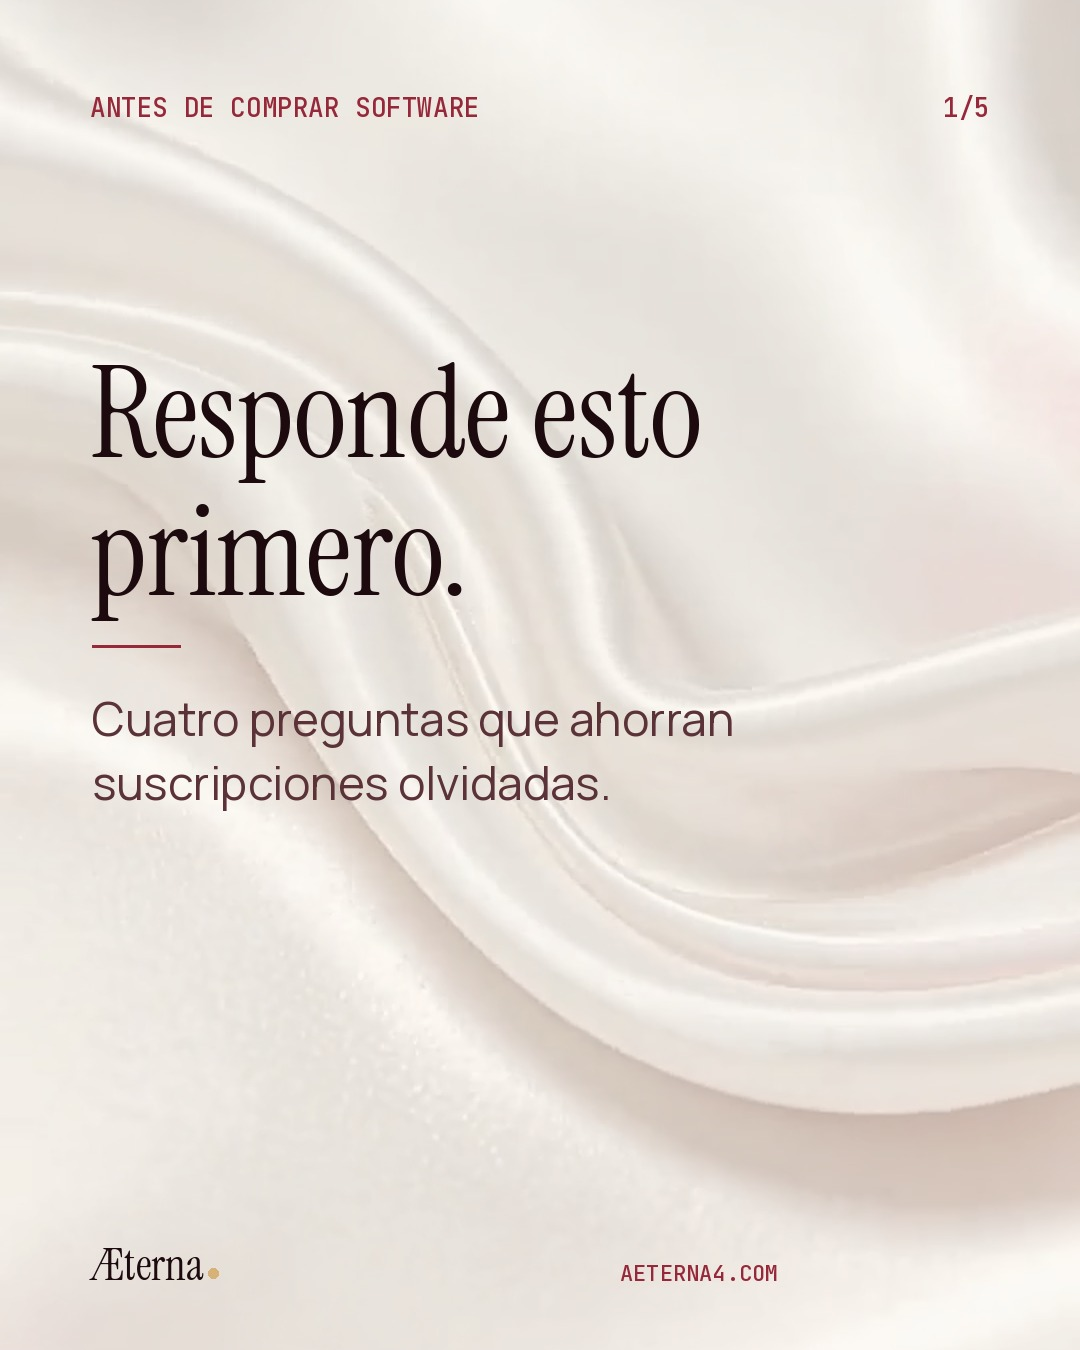
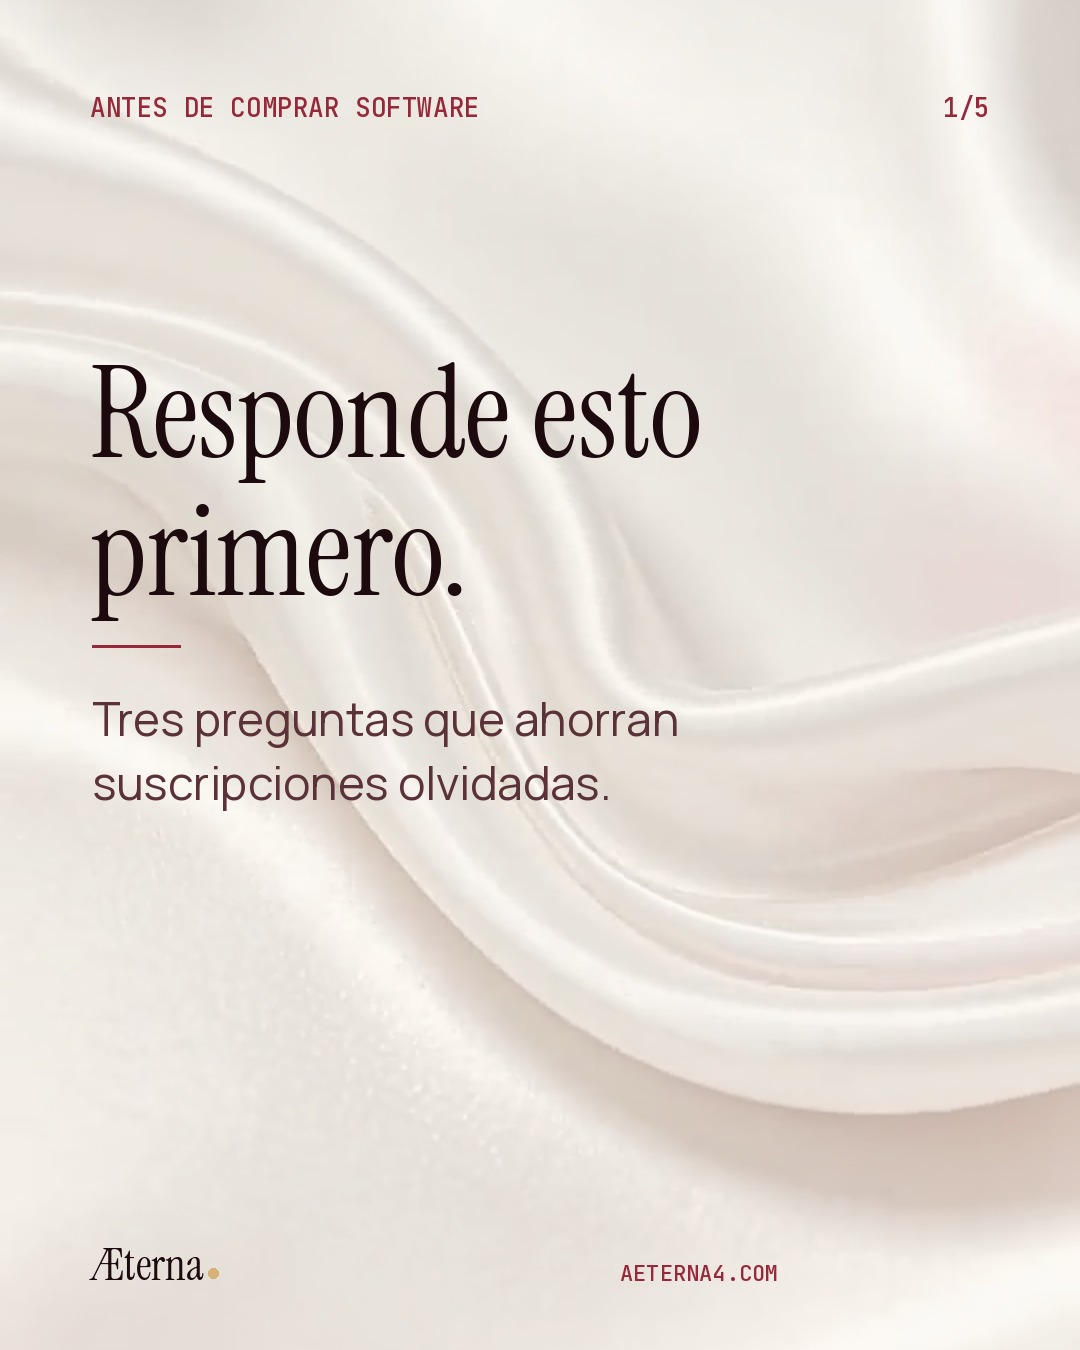
ARGOS 03 nov: C09 dice 'tres preguntas' (solo hay 3) en portada y caption; C08 quita fecha de registro no verificada
C09_1.jpg re-renderizado (slides 2-5 sin cambios). C08: caption sin el dato del
registro de comercios, que no esta entre los datos aprobados de la campana.

Claude-Session: https://claude.ai/code/session_01RnpjtXPNPu5goNSbLFXNyd

Changed region(s): [[0.0917, 0.4978, 0.6722, 0.56]]

diff --git a/tooling/content.py b/tooling/content.py
@@ -157,7 +157,7 @@ C('C08', [dict(kicker='Buen Fin · 13 al 17 nov', title='Checklist Buen Fin para
           dict(kicker='2', title='Un tablero, no cinco.', body='Pauta, ventas y mensajes en el mismo lugar para decidir en tiempo real.'),
           dict(kicker='3', title='Respuesta rápida.', body='Mensajes frecuentes listos y un responsable por turno.'),
           dict(kicker='4', title='Mide lo que vendiste.', body='Cuánto costó cada venta, no cuántos likes hubo.', cta='Prepárate con nosotros')],
-  'El Buen Fin 2026 va del 13 al 17 de noviembre y el registro de comercios cierra el 12 de noviembre (elbuenfin.org/comercios).\n\nGuarda este checklist y compártelo con tu equipo de ventas. ¿Te ayudamos a prepararlo? ' + WA,
+  'El Buen Fin 2026 va del 13 al 17 de noviembre. Lo que dejes listo esta semana es lo que vas a poder vender.\n\nGuarda este checklist y compártelo con tu equipo de ventas. ¿Te ayudamos a prepararlo? ' + WA,
   '#BuenFin2026 #Ecommerce', theme='wine', cta='WhatsApp'),
 R('R16', 13, [S(0, 4.2, ['Tu sitio web:', '*¿vende o solo existe?'], kicker='Pruébalo gratis', size=124),
               S(4.2, 8.4, ['Velocidad.', 'SEO.', 'Código.'], size=140),
@@ -169,12 +169,12 @@ R('R17', 8, [S(0, 3.4, ['El mejor software', 'para tu empresa…'], kicker='Sin 
              S(3.4, 8, ['a veces es gratis.', '_Y te lo vamos a decir.'], size=128)],
   'No recibimos comisión de ningún proveedor. Si la mejor respuesta es una herramienta gratuita, eso te recomendamos.\n\nEtiqueta a quien está a punto de pagar otra suscripción.',
   '#Consultoría #Tecnología', bg='b', ss=12, cta='Etiquetar'),
-C('C09', [dict(kicker='Antes de comprar software', title='Responde esto primero.', body='Cuatro preguntas que ahorran suscripciones olvidadas.'),
+C('C09', [dict(kicker='Antes de comprar software', title='Responde esto primero.', body='Tres preguntas que ahorran suscripciones olvidadas.'),
           dict(kicker='1', title='¿Qué proceso resuelve?', body='Si no lo puedes nombrar, todavía no lo necesitas.'),
           dict(kicker='2', title='¿Se conecta con lo que ya usas?', body='Facturación, hojas de cálculo, WhatsApp, punto de venta.'),
           dict(kicker='3', title='¿Quién lo usará todos los días?', body='Sin dueño, se vuelve otra suscripción olvidada.'),
           dict(kicker='Sin comisiones', title='Qué comprar, qué no y en qué orden.', body='Esa es nuestra consultoría.', cta='Agenda 30 min')],
-  'Antes de firmar otra licencia, pásala por estas cuatro preguntas.\n\nGuárdalo para tu próxima compra de tecnología. Si quieres una segunda opinión sin comisiones: ' + WA,
+  'Antes de firmar otra licencia, pásala por estas tres preguntas.\n\nGuárdalo para tu próxima compra de tecnología. Si quieres una segunda opinión sin comisiones: ' + WA,
   '#Tecnología #PyMEs', cta='WhatsApp'),
 R('R18', 13, [S(0, 4, ['30 minutos.'], kicker='Tu primera llamada', size=180),
               S(4, 8.4, ['Nos cuentas', 'qué proceso duele', 'y cuánto cuesta.'], size=120),
